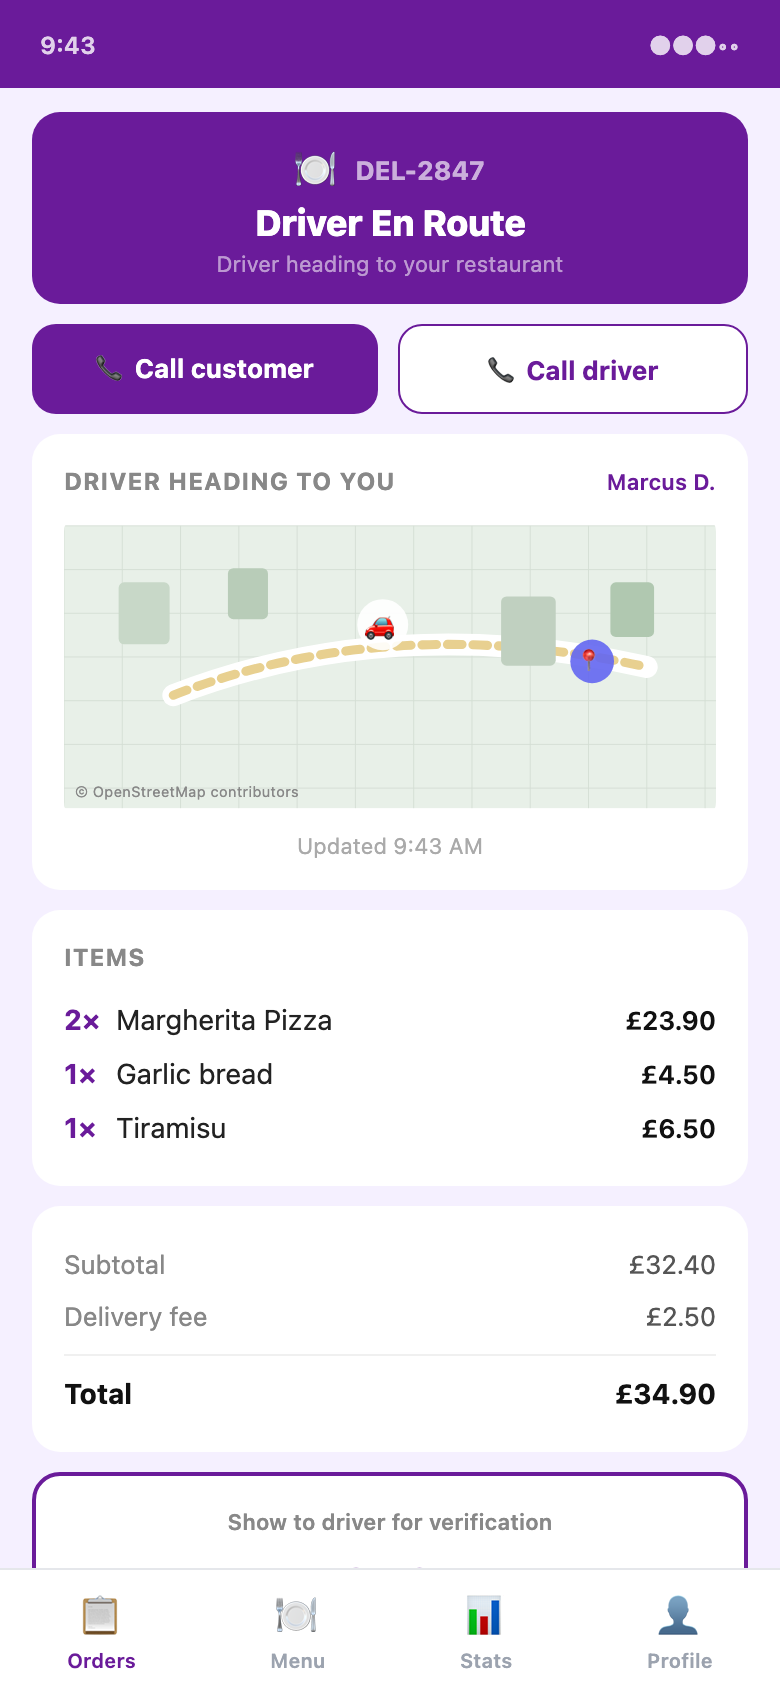
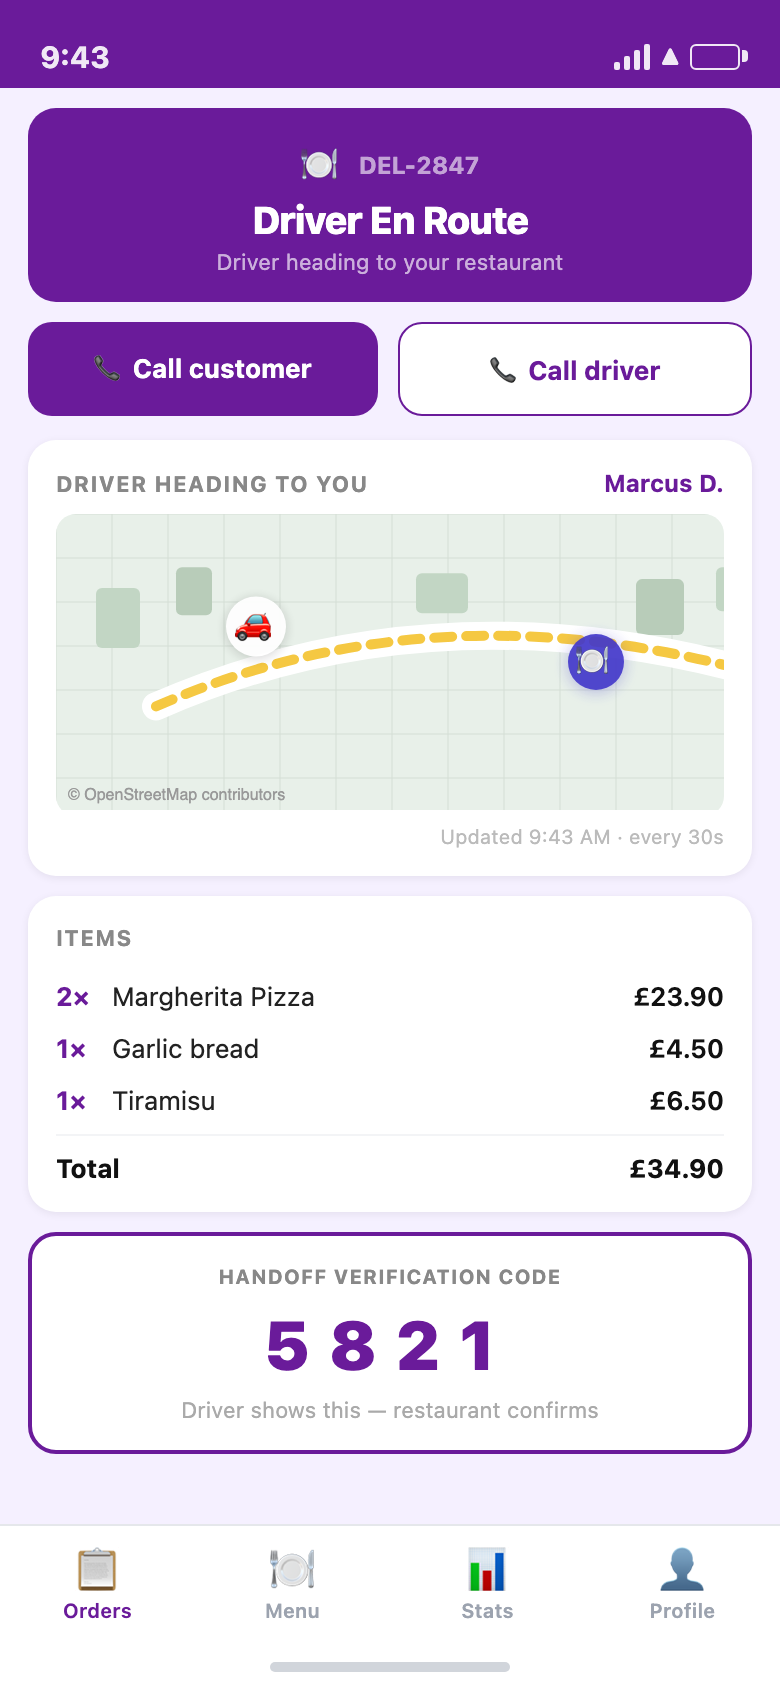
chore: sync 1-pager HTML and portal screenshots from platform-core

diff --git a/platform.html b/platform.html
@@ -307,14 +307,14 @@
       <div class="app-col driver">
         <div class="app-col-hdr">🚗 Driver App</div>
         <div class="app-screens">
-          <img src="demo/screenshots/wf-driver-01-available.png" alt="Driver — available order">
-          <img src="demo/screenshots/wf-driver-calls.png" alt="Driver — live map + masked call buttons">
+          <img src="demo/screenshots/wf-driver-enroute.png" alt="Driver — en route to restaurant with map and call button">
+          <img src="demo/screenshots/wf-driver-calls.png" alt="Driver — in transit with customer map and both call buttons">
         </div>
         <ul class="app-col-footer">
           <li>Go online — available orders appear instantly</li>
           <li>Accept or decline with auto-reassignment on decline</li>
-          <li>Live route map · 6-char pickup code verified at restaurant</li>
-          <li>One-tap masked calls to restaurant and customer — real numbers never exposed</li>
+          <li>Live route map to restaurant and customer · progress bar below banner</li>
+          <li>One-tap masked calls to restaurant and customer — real numbers never exposed (Twilio bridge)</li>
           <li>85% instant payout · 15% held 7 days in escrow</li>
         </ul>
         <div style="padding:8px 14px 12px; text-align:center;">

diff --git a/outcomes.html b/outcomes.html
@@ -266,9 +266,9 @@
     <div class="slbl">Driver, Restaurant &amp; Admin Apps — Real Screenshots</div>
     <div class="app-row">
       <div class="app-card driver">
-        <div class="app-card-hdr">🚗 Driver App — Active Delivery</div>
-        <img src="demo/screenshots/wf-driver-calls.png" alt="Driver app — live map and masked call buttons">
-        <div class="app-card-cap">Live route map · One-tap masked calls to restaurant and customer — real numbers never exposed (Twilio bridge)</div>
+        <div class="app-card-hdr">🚗 Driver App — En Route &amp; In Transit</div>
+        <img src="demo/screenshots/wf-driver-enroute.png" alt="Driver — en route to restaurant with live map and call button">
+        <div class="app-card-cap">Live map to restaurant and customer · progress bar below banner · one-tap masked calls — real numbers never exposed (Twilio bridge)</div>
       </div>
       <div class="app-card merchant">
         <div class="app-card-hdr">🍽️ Restaurant App — Order Detail</div>